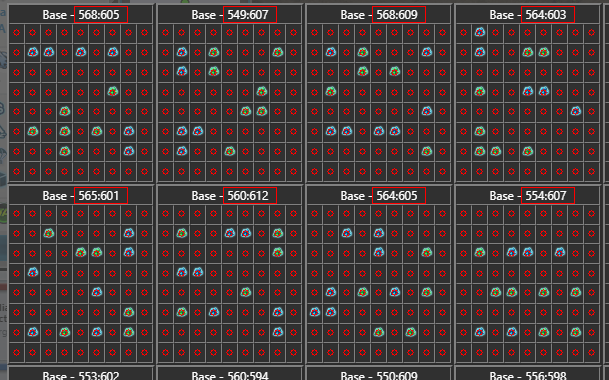
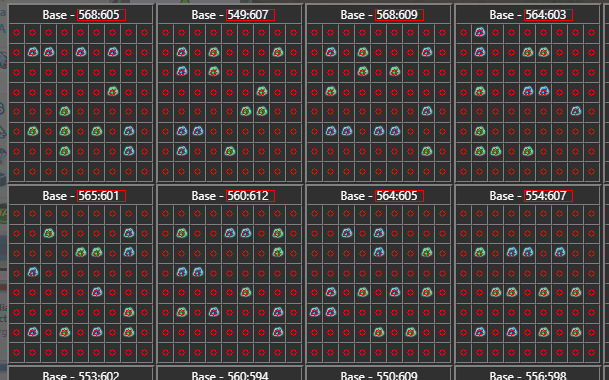
digit recognition

diff --git a/image2base.py b/image2base.py
@@ -27,8 +27,8 @@ class Image2Base:
     DEFAULT_LAYOUT_OFFSET :tuple[int,int] = (1,20)
     DEFAULT_LAYOUT_DIM :tuple[int,int] = (144, 158)
     DEFAULT_DIGITS_IMG :str = "digits.png"
-    DEFAULT_COORD_OFFSET :tuple[int,int] = (67,3)
-    DEFAULT_COORD_DIM :tuple[int,int] = (53,16)
+    DEFAULT_COORD_OFFSET :tuple[int,int] = (70,6)
+    DEFAULT_COORD_DIM :tuple[int,int] = (48,11)
 
     def __init__(self, 
                     anchor_img :str = DEFAULT_ANCHOR_IMG, 
@@ -65,13 +65,14 @@ class Image2Base:
         """
         # import the image and the template
         img_rgb = cv2.imread(layouts_img)
+        img_gray = cv2.cvtColor(img_rgb, cv2.COLOR_BGR2GRAY)
         template = cv2.imread(self.__anchor_img)
-        w, h = template.shape[:-1]
 
         # load the digit images to detect the coordinates
-        digits_img = cv2.imread(self.__digits_img)
-        digits = [digits_img[:,d*10:(d+1)*10,:] for d in range(10)]
-
+        digits_img = cv2.cvtColor(cv2.imread(self.__digits_img), cv2.COLOR_BGR2GRAY)
+        digits = [digits_img[:,d*10:(d+1)*10] for d in range(10)]
+        digit_masks = [(digits[d]>60).astype(np.uint8) for d in range(10)] 
+        
         # find all instances of the template within the image
         res = cv2.matchTemplate(img_rgb, template, cv2.TM_CCOEFF_NORMED)
         threshold = .9
@@ -92,8 +93,9 @@ class Image2Base:
             coord_top_left = (pt[0]+self.__coord_offset[0], pt[1]+self.__coord_offset[1])
             coord_bottom_right = (pt[0]+self.__coord_offset[0]+self.__coord_dim[0], pt[1]+self.__coord_offset[1]+self.__coord_dim[1])
             cv2.rectangle(img_rgb, pt1=coord_top_left, pt2=coord_bottom_right, color=(0,0,255), thickness=1)
-            coord_img = img_rgb[coord_top_left[1]:coord_bottom_right[1],coord_top_left[0]:coord_bottom_right[0],:]
-            self._detect_coordinates(coord_img, digits)
+            coord_img = img_gray[coord_top_left[1]:coord_bottom_right[1],coord_top_left[0]:coord_bottom_right[0]]
+            cv2.imwrite('coord.png', coord_img)
+            self._detect_coordinates(coord_img, digits, digit_masks)
 
             # check each cell of the layout and decide if it's empty, contains tiberium or crystal
             base_arr = np.zeros((Constants.BASE_ROWS, Constants.BASE_COLUMNS), dtype=np.int32)
@@ -113,12 +115,22 @@ class Image2Base:
         cv2.imwrite('result.png', img_rgb)
         return layouts
 
-    def _detect_coordinates(self, img, digits) -> tuple[int,int]:
-        for d in range(10):
-            res = cv2.matchTemplate(img, digits[d], cv2.TM_SQDIFF_NORMED)
-            loc = np.where(res == 1)
-            for pt in zip(*loc[::-1]):
-                print(f"found digit {d} at {pt}")
+    def _detect_coordinates(self, img, digits :np.ndarray, digit_masks :np.ndarray) -> tuple[int,int]:
+        detected_digits :dict[int, int] = {0:0,1:0,2:0,3:0,4:0,5:0,6:0,7:0,8:0,9:0}        
+        
+        img = ((img > 150)*255).astype(np.float64)
+        cv2.imwrite(f'coord.png', img)
+        for d in range(10):            
+            digit = ((digits[d]>150)*255).astype(np.float64)
+            cv2.imwrite(f'digit{d}.png', digit)
+            h, w = digit.shape
+            for dx in range (img.shape[1]-w+1):
+                diff = float(np.sum(np.abs(img[:,dx:dx+w]-digit)/255.0 * digit_masks[d])) / np.sum(digit_masks[d])
+                if diff < 0.26:
+                    print(f"digit {d} : dx={dx}, diff={diff:.2f}")
+
+
+        return detected_digits.items()
 
     def _detect_cell_type(self, img, coord :tuple[int,int]) -> int:
         """
